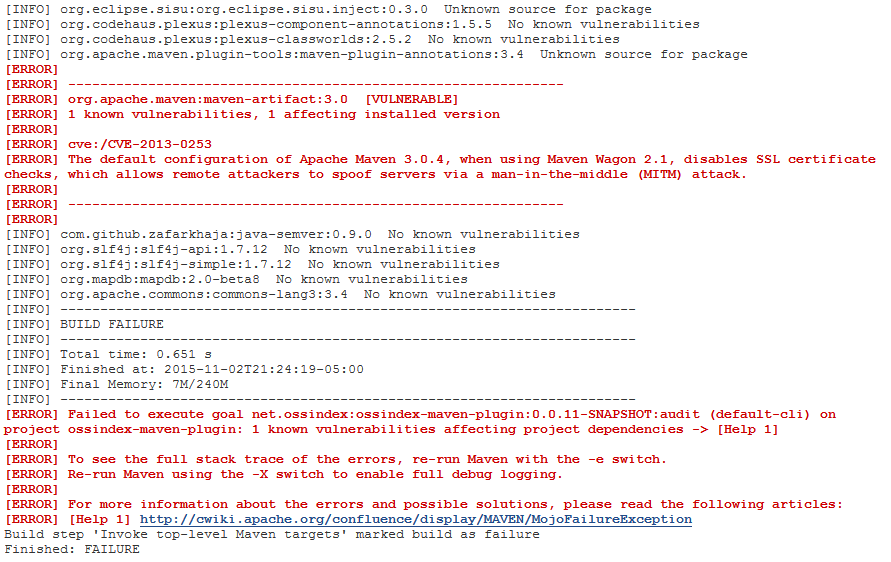
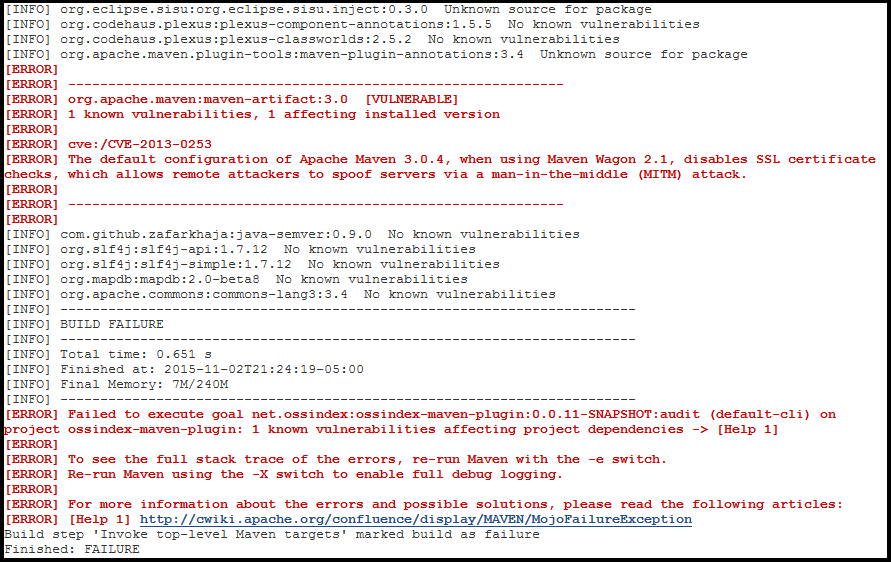
Added image borders

Changed region(s): [[0.0, 0.0, 1.0, 1.0]]

diff --git a/README.md b/README.md
@@ -113,7 +113,7 @@ Integration into Jenkins
 A simple way to integrate with Jenkins is as "post-build step", specifically
 under the "Invoke top-level Maven targets".
 
-<img src="docs/jenkins1.png" style="border: 1px solid black;"/>
+![Jenkins config](docs/jenkins1.png)
 
 * Go to the configuration for your Jenkins project
 * Find and click the "Add post-build step" drop down
@@ -121,12 +121,12 @@ under the "Invoke top-level Maven targets".
 * Enter "net.ossindex:ossindex-maven-plugin:audit" as the goal
 * Select Apply/Save and re-run your build
 
-<img src="docs/jenkins2.png" style="border: 1px solid black; width: 600px;"/>
+![Jenkins config](docs/jenkins2.png)
 
 If a vulnerability is detected in a dependency the build will indicate a failure and
 log output for the build will contain something like this:
 
-<img src="docs/jenkins-err.png" style="border: 1px solid black; width: 600px;"/>
+![Jenkins error](docs/jenkins-err.png)
 
 Package Initialization
 ----------------------
